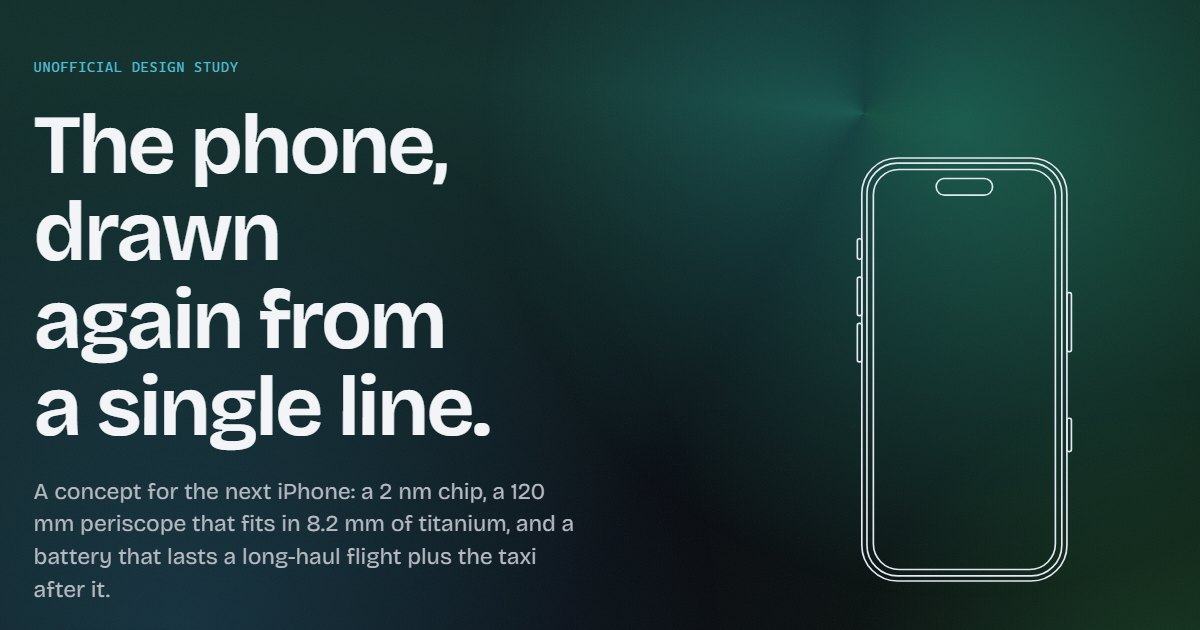
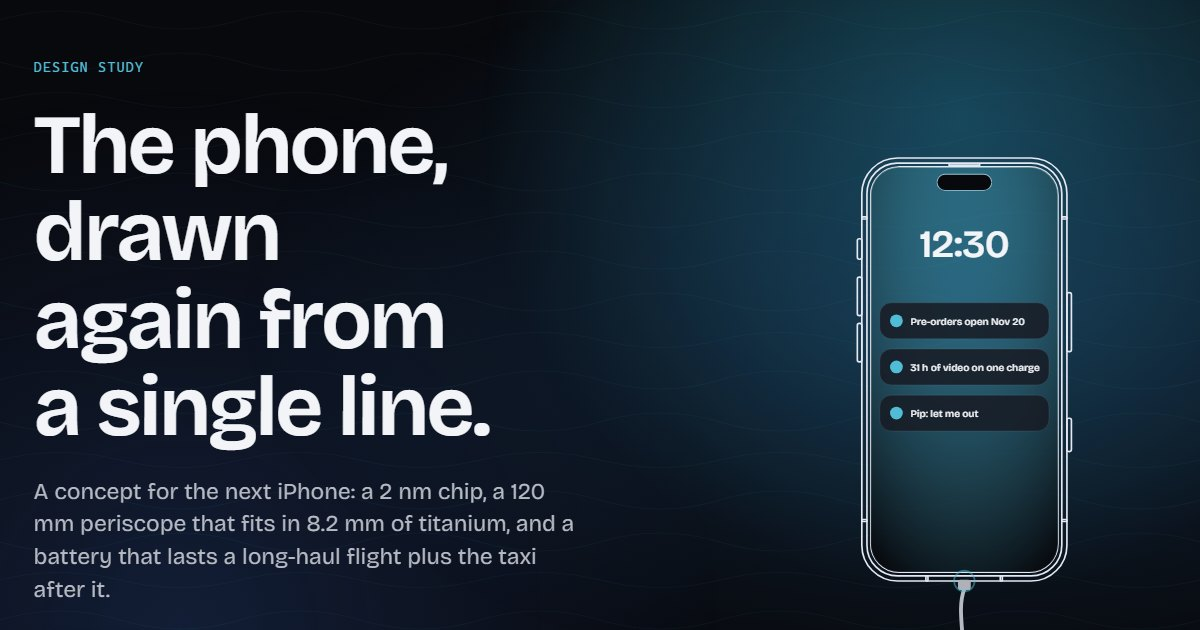
chore: drop the unofficial and portfolio disclaimers from the copy and docs
The page, the meta tags, the package description, the plans and the share
image describe it as a concept and design study; the tests follow the new
eyebrow text.

diff --git a/src/content/copy.ts b/src/content/copy.ts
@@ -27,7 +27,7 @@ export const lockScreenCopy = {
 } as const
 
 export const heroCopy = {
-  eyebrow: 'Unofficial design study',
+  eyebrow: 'Design study',
   title: 'The phone, drawn again from a single line.',
   lede: 'A concept for the next iPhone: a 2 nm chip, a 120 mm periscope that fits in 8.2 mm of titanium, and a battery that lasts a long-haul flight plus the taxi after it.',
   primaryCta: 'Reserve yours',
@@ -109,8 +109,7 @@ export const reserveCopy = {
   invalidEmail: 'That does not look like an email address. Check for a missing @ or dot.',
   missingEmail: 'Enter your email address to reserve.',
   successTitle: 'You are on the list.',
-  successBody:
-    'Nothing was actually sent: this is a portfolio concept. Thanks for trying the form.',
+  successBody: 'Nothing was actually sent: this is a concept page. Thanks for trying the form.',
   renderLabel: 'Front of the phone in the selected finish',
   screenReserved: 'Reserved ✓',
 } as const
@@ -212,8 +211,7 @@ export const mascotCopy = {
 } as const
 
 export const footerCopy = {
-  legal:
-    'Concept 18 Pro is an unofficial design study made for a portfolio. It is not affiliated with, endorsed by or connected to Apple Inc. iPhone is a trademark of Apple Inc., registered in the U.S. and other countries. Every specification on this page is invented.',
+  legal: 'Concept 18 Pro is a design study. Every specification on this page is invented.',
   fontCredit: 'Set in Bricolage Grotesque, SIL Open Font License.',
   linksLabel: 'Footer',
   backToTop: 'Back to top',

diff --git a/index.html b/index.html
@@ -3,10 +3,10 @@
   <head>
     <meta charset="UTF-8" />
     <meta name="viewport" content="width=device-width, initial-scale=1, viewport-fit=cover" />
-    <title>Concept 18 Pro: an unofficial phone design study</title>
+    <title>Concept 18 Pro: a phone design study</title>
     <meta
       name="description"
-      content="An unofficial concept for the next iPhone, told through scroll: a line drawing, an exploded view of seven layers, and four finishes. Portfolio project, not affiliated with Apple."
+      content="A concept for the next iPhone, told through scroll: a line drawing, an exploded view of seven layers, and four finishes."
     />
     <meta name="theme-color" content="#07090d" />
     <meta name="color-scheme" content="dark" />

diff --git a/src/components/RevealText/decodeFrame.test.ts b/src/components/RevealText/decodeFrame.test.ts
@@ -3,10 +3,10 @@ import { decodeFrame, decodeMs } from './decodeFrame'
 
 describe('decodeFrame', () => {
   it('keeps the length and the spaces while cycling', () => {
-    const frame = decodeFrame('Unofficial design study', 0, () => 0.3)
-    expect(frame).toHaveLength('Unofficial design study'.length)
-    expect(frame.split(' ').map((word) => word.length)).toEqual([10, 6, 5])
-    expect(frame).not.toBe('Unofficial design study')
+    const frame = decodeFrame('Design study', 0, () => 0.3)
+    expect(frame).toHaveLength('Design study'.length)
+    expect(frame.split(' ').map((word) => word.length)).toEqual([6, 5])
+    expect(frame).not.toBe('Design study')
   })
 
   it('settles from left to right and ends on the real text', () => {

diff --git a/src/components/RunawayLetters/letterPicker.test.ts b/src/components/RunawayLetters/letterPicker.test.ts
@@ -26,7 +26,7 @@ describe('candidateBlocks', () => {
       <p aria-hidden="true">Decoration</p>
       <a href="#x"><h3>Linked title</h3></a>
       <p data-reveal="hidden">Not yet shown</p>
-      <p><span data-decoding="">Unofficial</span></p>
+      <p><span data-decoding="">Design study</span></p>
     `)
     const texts = (selector: string) =>
       candidateBlocks(root, selector).map((block) => block.textContent?.trim())

diff --git a/docs/9-plan-bitten-mark-and-mesh.md b/docs/9-plan-bitten-mark-and-mesh.md
@@ -103,7 +103,7 @@ The reference is the common CSS mesh: a dark ground with several large, soft, co
 
 ## 6. Open questions
 
-- §1, trademark: plan 7 §4 kept the bite ragged on hover only, because a mark that reads as Apple's logo is a trademark risk even on a page marked unofficial; plan 8 made the hover bite round. This plan makes the round bite the resting shape everywhere, at the user's request. If that turns out to be a problem, the fallback is the plan 8 state: a whole apple at rest and the round bite on hover.
+- §1, trademark: plan 7 §4 kept the bite ragged on hover only, because a mark that reads as Apple's logo is a trademark risk; plan 8 made the hover bite round. This plan makes the round bite the resting shape everywhere, at the user's request. If that turns out to be a problem, the fallback is the plan 8 state: a whole apple at rest and the round bite on hover.
 - §1: whether the Reserve wallpaper apple and the particle apple should be bitten too. The plan bites them (one path for every user, so nothing can drift apart); if they should stay whole, they import `appleWholeBodyPath`.
 - §3: the fourth blob at +160 makes the mesh read like the reference but takes the bar outside the finish's colour family; the alternative is four hues within ±50 of the accent. Decided by eye in both themes.
 - §3: the reference's exact code was not readable (the playground renders it client-side), so the look above is the common pattern it shows: soft blobs drifting over a dark ground. Checked against the reference by eye before P5 is called done.

diff --git a/docs/7-plan-games-and-surfaces.md b/docs/7-plan-games-and-surfaces.md
@@ -104,7 +104,7 @@ The header mark (`Header.tsx`, 1.4 rem) and the footer mark (`Footer.tsx`, 1.2 r
 **Hover and `:focus-visible` of the host** (≈ 1 s):
 
 1. The apple grows (`scale` 1 → 1.35 in the header, 1 → 1.45 in the footer, 200 ms, `ease-out`), so the bite is visible at this size.
-2. A worm pushes out of the right side of the body (three segments and two eyes, accent colour), and **bites** in three chomps (`steps(3, jump-end)`, 240 ms, the apple jolts 1 px on each chomp). The bite is the worm's own: three small overlapping circles (r 1.6–1.9) along the right edge around (20.6, 10.8) in the 24-unit space, one per chomp, so it reads as a ragged, chewed notch. It is **not** one clean round bite: the page is unofficial (README), and a mark that reads as Apple's logo is a trademark problem, so the bitten mark must stay this page's apple.
+2. A worm pushes out of the right side of the body (three segments and two eyes, accent colour), and **bites** in three chomps (`steps(3, jump-end)`, 240 ms, the apple jolts 1 px on each chomp). The bite is the worm's own: three small overlapping circles (r 1.6–1.9) along the right edge around (20.6, 10.8) in the 24-unit space, one per chomp, so it reads as a ragged, chewed notch. It is **not** one clean round bite: a mark that reads as Apple's logo is a trademark problem, so the bitten mark must stay this page's apple.
 3. The worm pulls back inside the apple (200 ms) and **the bite stays** while the pointer is on the mark.
 4. The leaf swings once when the worm disappears.
 

diff --git a/docs/8-plan-paint-and-fixes.md b/docs/8-plan-paint-and-fixes.md
@@ -158,7 +158,7 @@ Measured: the header toggle (`motion-toggle header__motion`, compact) is 44 × 4
 
 ## 11. Open questions
 
-- §7, trademark: plan 7 §4 kept the bite ragged on purpose, because a mark that reads as Apple's logo is a trademark risk even on a page marked unofficial. This plan makes the bite round at the user's request. If that turns out to be a problem, stop after chomp 4 (a ragged notch about as large).
+- §7, trademark: plan 7 §4 kept the bite ragged on purpose, because a mark that reads as Apple's logo is a trademark risk. This plan makes the bite round at the user's request. If that turns out to be a problem, stop after chomp 4 (a ragged notch about as large).
 - §3, phones: at 49 px the closed tab covers about 31 px of the content edge (10 px today). Alternatives if it is too much: ×1.75 height and icon only, with the width at 2.25 rem (36 px). The first build follows the request (×1.75 everywhere) and README "Known gaps" gets the new number.
 - §1: a fourth layer of thin light veins (a contour band instead of a filled region) would make it read even more as marbled paper; it costs a layer at the hero, so it is not in the first build.
 - §1: whether the paint should follow the finish (it does: every colour reads `--accent-h`) or keep its own fixed palette. Decided by eye.

diff --git a/docs/0-plan-landing.md b/docs/0-plan-landing.md
@@ -1,6 +1,6 @@
-# Animated iPhone concept landing (portfolio)
+# Animated iPhone concept landing
 
-Unofficial concept page for the latest iPhone. Not affiliated with Apple. Trademark-safe: the page says "concept, not affiliated" in the footer, uses an own stylised apple mark instead of the real logo, and invented but plausible specs.
+Concept page for the latest iPhone. It uses an own stylised apple mark instead of the real logo, and invented but plausible specs.
 
 > **Plan order.** Plans in `docs/` are numbered `N-plan-<name>.md`; this is plan 0. If a requirement in a plan with a higher number conflicts with a requirement in a plan with a lower number, the higher-numbered plan wins. Everything a later plan does not touch still applies as written here.
 

diff --git a/docs/2-plan-play-and-polish.md b/docs/2-plan-play-and-polish.md
@@ -202,7 +202,7 @@ The form's submit button (`Reserve.module.scss` `.submit`) only has the plain `b
 
 ## 11. Readable class names: BEM instead of `_submit_1xym1_141`
 
-CSS modules use Vite's default scoped names, so the DOM is full of names like `_submit_1xym1_141` and `_scene_1ex08_137`: they start with an underscore, carry a hash and a line number, and say nothing about where they come from. The page is a portfolio piece, people will open DevTools.
+CSS modules use Vite's default scoped names, so the DOM is full of names like `_submit_1xym1_141` and `_scene_1ex08_137`: they start with an underscore, carry a hash and a line number, and say nothing about where they come from. People will open DevTools on this page.
 
 **Naming rule (BEM).**
 

diff --git a/README.md b/README.md
@@ -14,8 +14,6 @@
 <img src="docs/media/scroll-tour.gif" alt="Scrolling through the page: the blueprint line drawing and the particle field" width="49%" />
 <img src="docs/media/details-and-play.gif" alt="The finishes render with the mini-game and the walking mascot" width="49%" />
 
-<sub>Portfolio project, not affiliated with Apple. Every spec on the page is invented.</sub>
-
 </div>
 
 ## Tech stack

diff --git a/docs/README.md b/docs/README.md
@@ -1,6 +1,6 @@
 # Concept 18 Pro
 
-An unofficial, scroll-driven concept page for a next-generation phone. Portfolio work: not affiliated with Apple, and every spec on the page is invented.
+A scroll-driven concept page for a next-generation phone. Every spec on the page is invented.
 
 ![Hero of the page: a line drawing of a phone next to the headline](../public/og-image.jpg)
 
